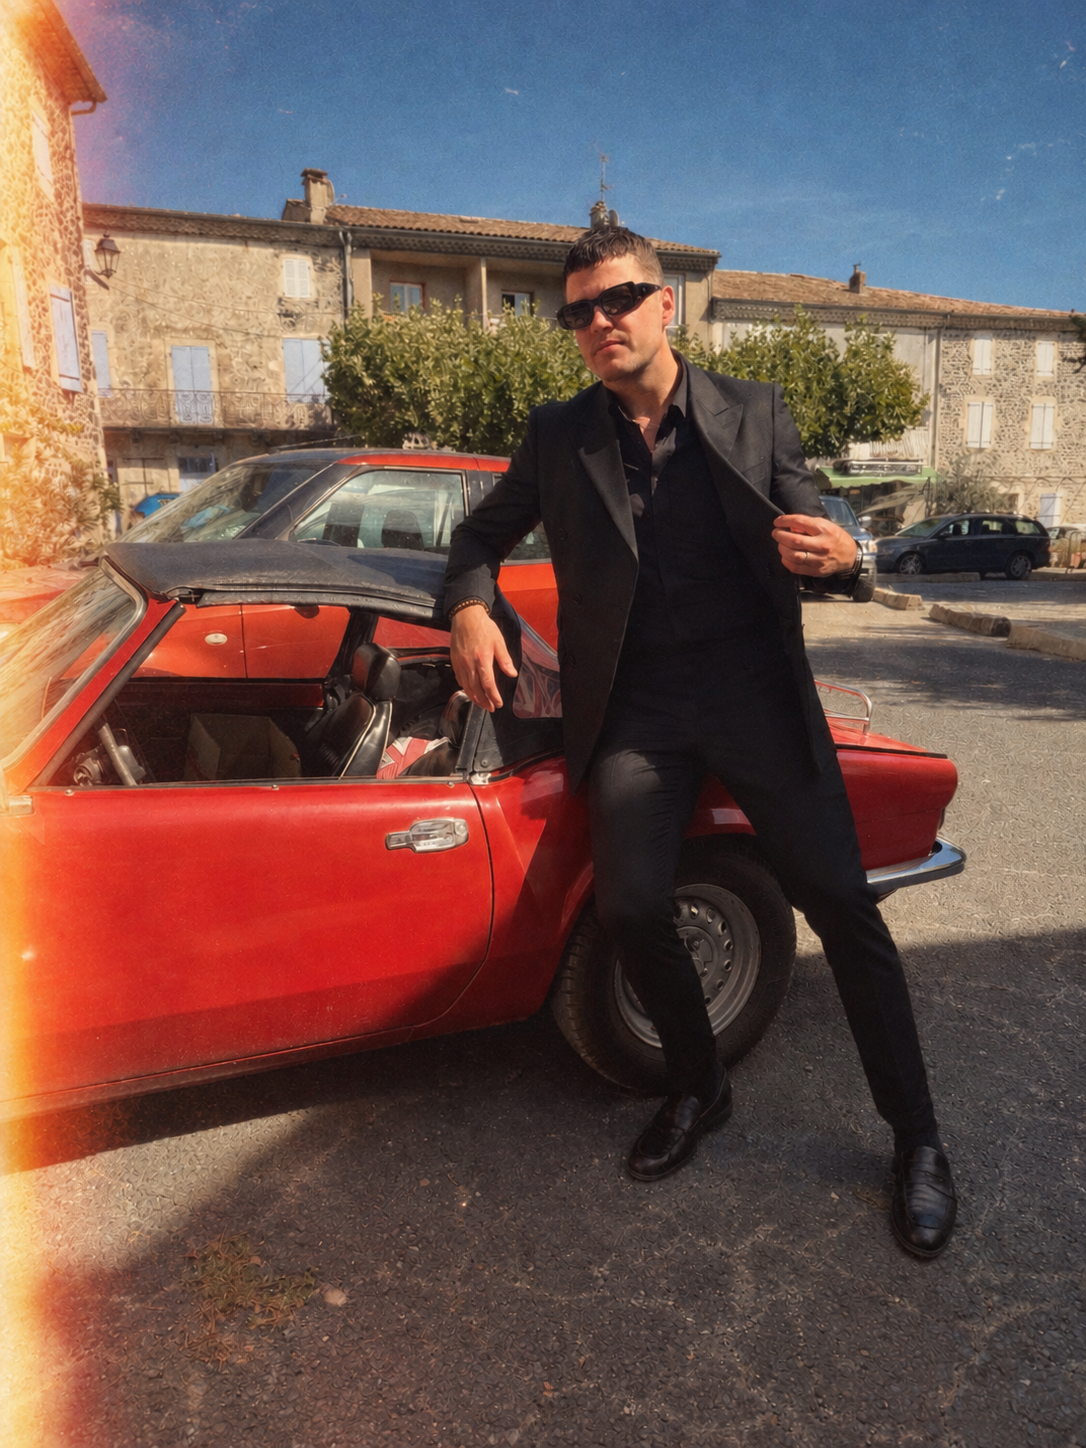
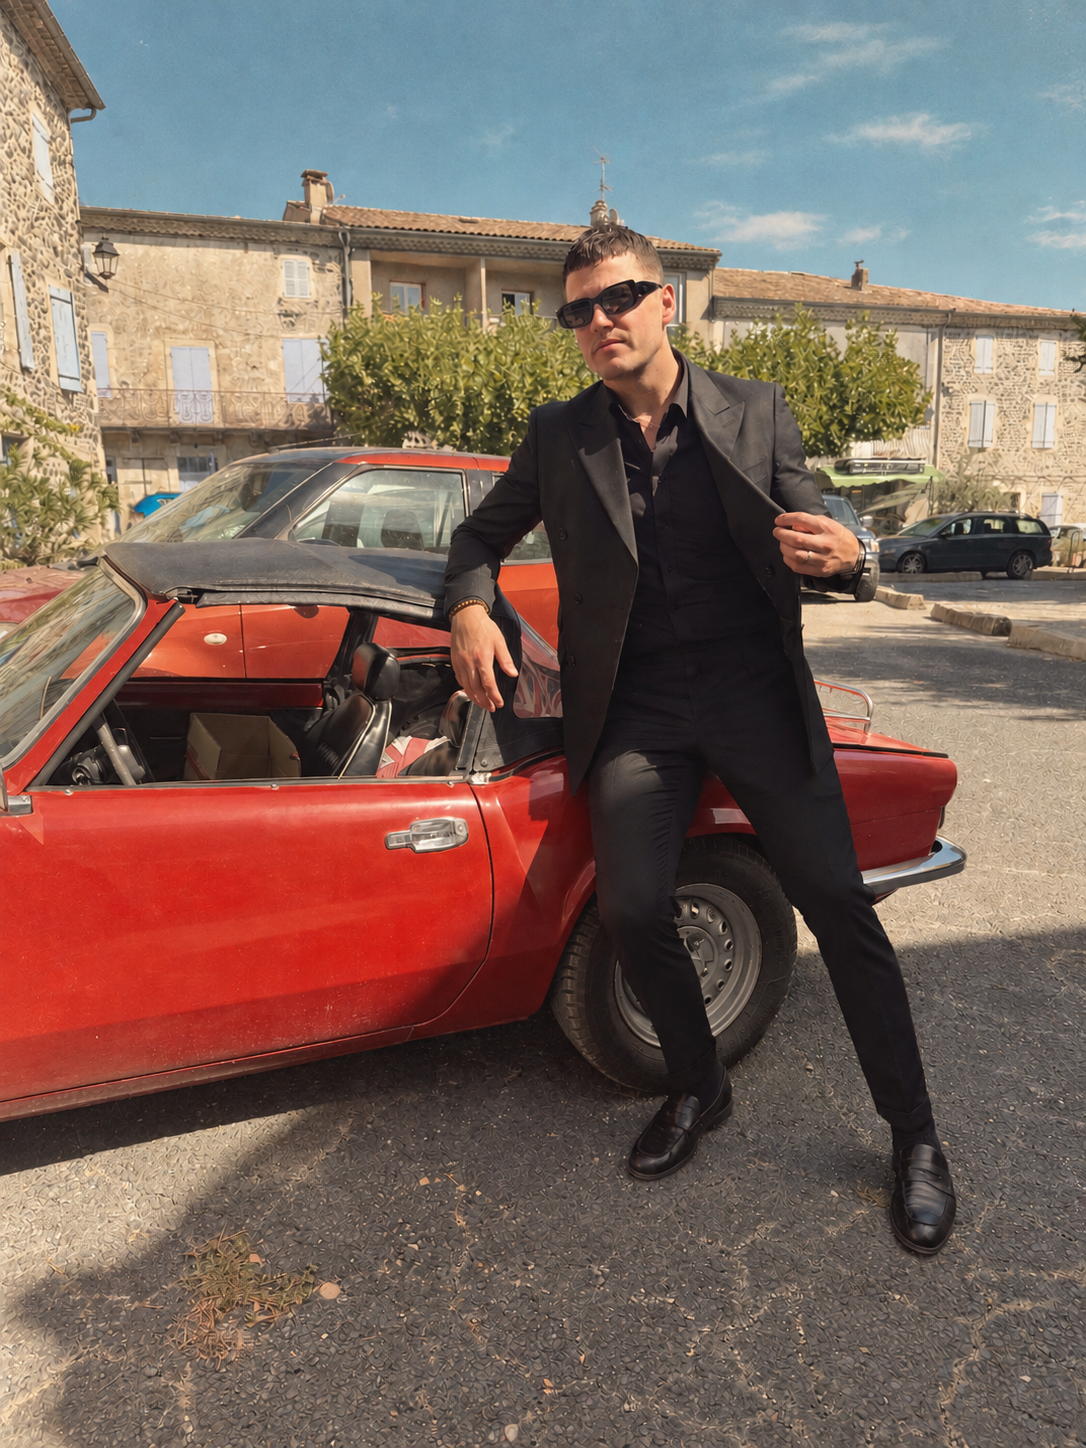
Brighten the Sérsaumur homepage hero photo.
Swap in the lighter frame and ease the overlay so Saumað
fyrir þig stays readable without darkening the box.

diff --git a/app/page.tsx b/app/page.tsx
@@ -88,12 +88,12 @@ function HeroFrame({
         className={
           fit === "contain"
             ? "object-contain object-center p-8 md:p-14"
-            : "object-cover object-[center_38%]"
+            : "object-cover object-[center_38%] brightness-[1.06]"
         }
         sizes="(min-width:768px) 50vw, 100vw"
       />
       {fit === "cover" ? (
-        <div className="absolute inset-0 z-10 bg-black/25" aria-hidden />
+        <div className="absolute inset-0 z-10 bg-black/10" aria-hidden />
       ) : null}
       <div className="absolute inset-0 z-20 flex items-center justify-center px-6">
         <div className="flex flex-col items-center text-center">
